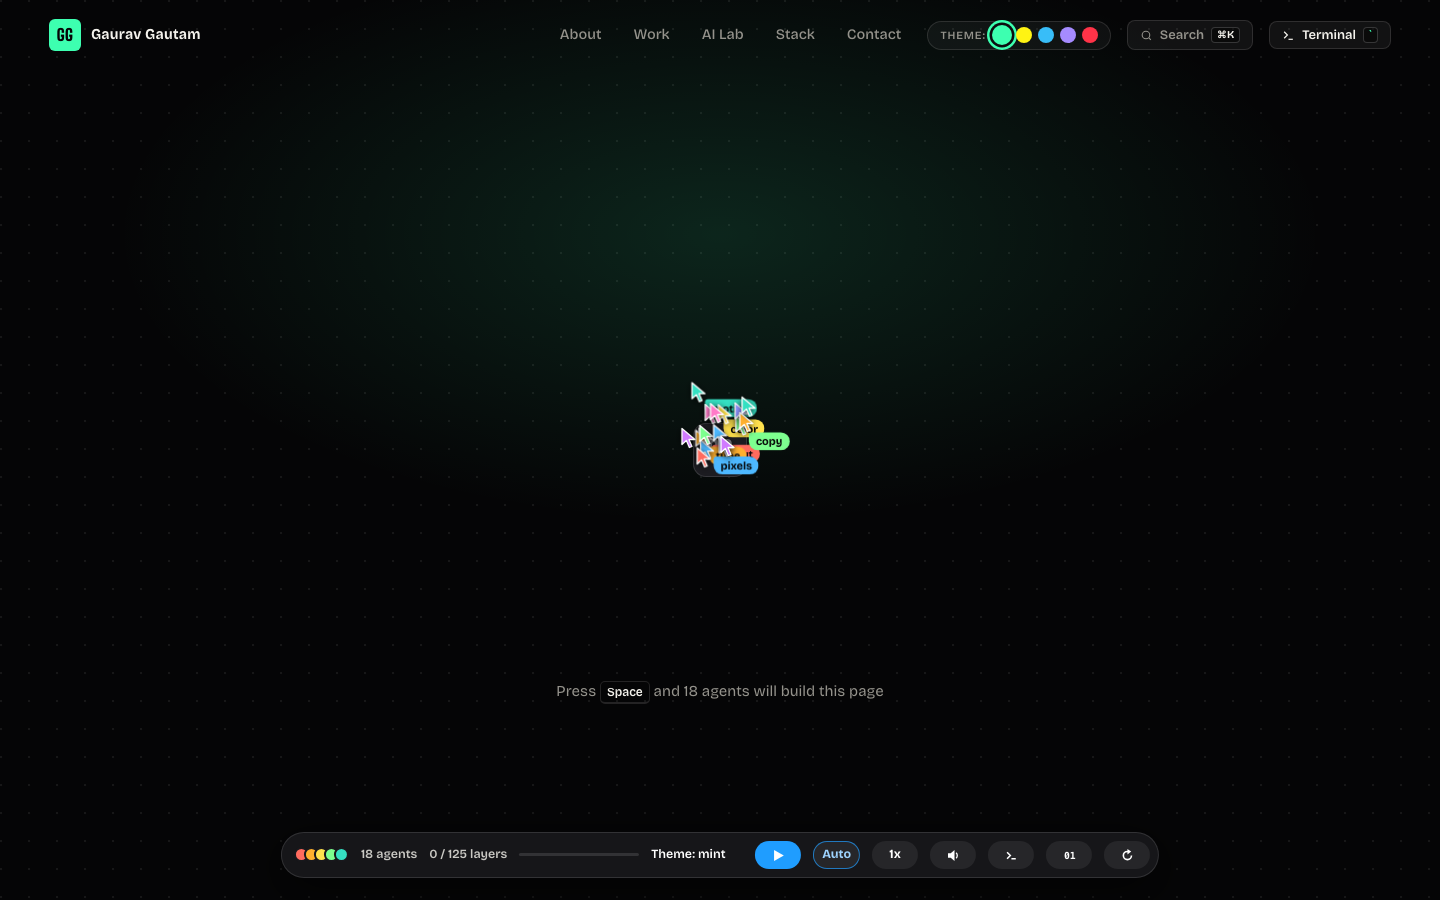
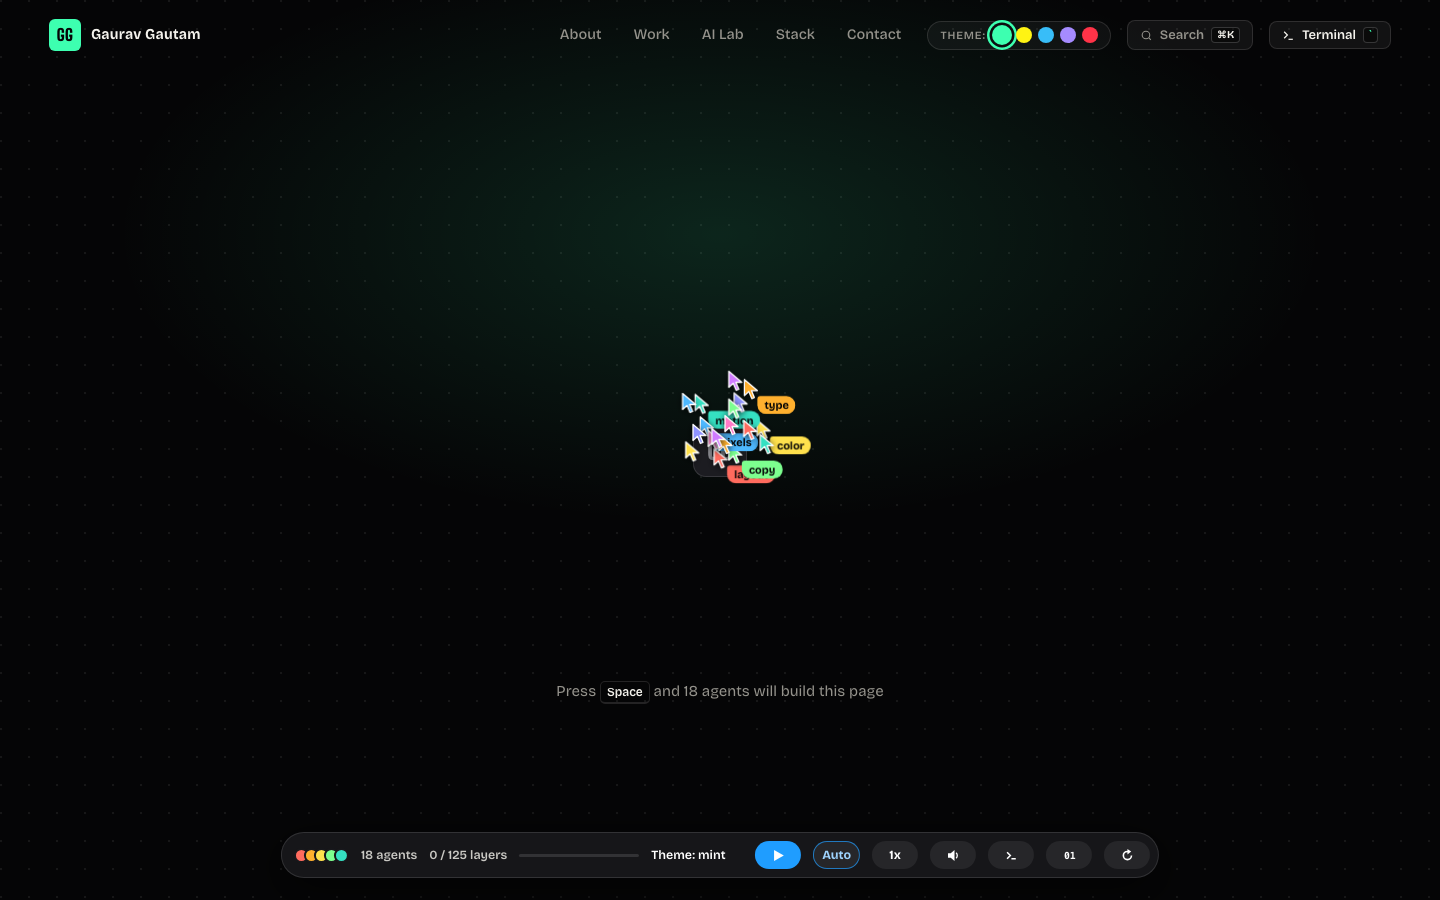
Update SIH finalist achievement description

diff --git a/index.html b/index.html
@@ -1229,7 +1229,7 @@ html { scroll-behavior: smooth; }
   <div class="stats" data-block>
     <div class="stat" data-b="box"><b>9.49</b><span>CGPA · Top 1% of CSE cohort at SRM-AP</span></div>
     <div class="stat" data-b="box"><b>150+</b><span>automated test suite in CI/CD pipelines</span></div>
-    <div class="stat" data-b="box"><b>2×</b><span>SIH 2026 Ministry Finalist (MoES &amp; Railways)</span></div>
+    <div class="stat" data-b="box"><b>SIH</b><span>Finalist of Smart India Hackathon (SIH)</span></div>
   </div>
 </section>
 
@@ -1244,7 +1244,7 @@ html { scroll-behavior: smooth; }
   <ol class="time" data-block>
     <li data-b="box"><b data-b="text">2024</b><span data-b="text">Started B.Tech CSE at SRM-AP; deep dive into data structures, algorithms, and systems.</span></li>
     <li data-b="box"><b data-b="text">2025</b><span data-b="text">Appointed Associate Convenor at Coding Club; authored high-throughput FastAPI services.</span></li>
-    <li data-b="box"><b data-b="text">2026</b><span data-b="text">Research Fellowship at IIT Bhubaneswar; 2x Ministry Finalist at Smart India Hackathon.</span></li>
+    <li data-b="box"><b data-b="text">2026</b><span data-b="text">Research Fellowship at IIT Bhubaneswar; Finalist of Smart India Hackathon (SIH).</span></li>
     <li data-b="box"><b data-b="text">2028</b><span data-b="text">Target B.Tech graduation with CSE major and Applied Mathematics minor.</span></li>
   </ol>
 </section>
@@ -2484,7 +2484,7 @@ const TERMINAL_COMMANDS = {
 Software Engineer & Applied AI/ML Researcher
 Undergraduate at SRM University-AP (CGPA: 9.49, Top 1% CSE Cohort)
 Research Fellow at IIT Bhubaneswar (Efficient AI Lab)
-2× Smart India Hackathon Ministry Finalist (MoES & Ministry of Railways)`,
+Finalist of Smart India Hackathon (SIH)`,
 
   projects: () => `[1] VarshaPurvanumanAI (MoES / IMD Rainfall Downscaling) -> https://varsha-purvanuman-ai.vercel.app/
 [2] RailSamanvayAI (Indian Railways Maintenance Conflict Solver) -> https://rail-samanvay-ai.vercel.app/
@@ -2521,7 +2521,7 @@ GitHub       : https://github.com/ggthedeveloper`;
   stats: () => `ACADEMIC & CODEBASE TELEMETRY:
 • CGPA: 9.49 / 10.0 (Top 1% Department Rank, SRM University-AP)
 • Fellowships: IIT Bhubaneswar (Efficient AI Lab)
-• Hackathons: 2× SIH Ministry Finalist (Ministry of Earth Sciences, Ministry of Railways)
+• Hackathons: Finalist of Smart India Hackathon (SIH)
 • Repositories: 21 Public Repositories (@ggthedeveloper)`,
 
   matrix: () => {

diff --git a/assets/js/data.js b/assets/js/data.js
@@ -240,7 +240,7 @@ const PORTFOLIO_DATA = {
       icon: "trophy",
       date: "2026-03",
       title: "Smart India Hackathon (SIH 2026) Finalist",
-      sub: "Internal Finalist across 2 Ministry Problem Statements (MoES SIH26080 & Railways SIH26027)"
+      sub: "Finalist of Smart India Hackathon (SIH)"
     },
     {
       icon: "medal",

diff --git a/README.md b/README.md
@@ -5,7 +5,7 @@
 [![Portfolio Status](https://img.shields.io/badge/Status-Live-3dffb0?style=for-the-badge&logo=vercel&logoColor=black)](https://ggthedeveloper.github.io/MyPortfolio/)
 [![GitHub](https://img.shields.io/badge/GitHub-ggthedeveloper-181717?style=for-the-badge&logo=github)](https://github.com/ggthedeveloper)
 [![LinkedIn](https://img.shields.io/badge/LinkedIn-ggthedeveloper-0A66C2?style=for-the-badge&logo=linkedin)](https://www.linkedin.com/in/ggthedeveloper)
-[![SIH Finalist](https://img.shields.io/badge/SIH_2026-2%C3%97_Ministry_Finalist-f59e0b?style=for-the-badge)](https://github.com/ggthedeveloper/VarshaPurvanumanAI)
+[![SIH Finalist](https://img.shields.io/badge/SIH_2026-Finalist-f59e0b?style=for-the-badge)](https://github.com/ggthedeveloper/VarshaPurvanumanAI)
 [![CGPA](https://img.shields.io/badge/SRM--AP-CGPA_9.49-38bdf8?style=for-the-badge)](https://github.com/ggthedeveloper)
 
 <br/>
@@ -162,7 +162,7 @@ MyPortfolio/
 **Gaurav Gautam**
 - **Institution:** SRM University-AP (B.Tech CSE with Minor in Mathematics, CGPA: **9.49**)
 - **Fellowship:** Research Fellow at IIT Bhubaneswar (Efficient AI Lab)
-- **Achievements:** 2× Smart India Hackathon Ministry Finalist (MoES & Ministry of Railways)
+- **Achievements:** Finalist of Smart India Hackathon (SIH)
 - **GitHub:** [@ggthedeveloper](https://github.com/ggthedeveloper)
 - **LinkedIn:** [linkedin.com/in/ggthedeveloper](https://www.linkedin.com/in/ggthedeveloper)
 - **Email:** [ggraipurchor@gmail.com](mailto:ggraipurchor@gmail.com)
